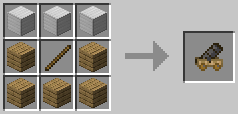
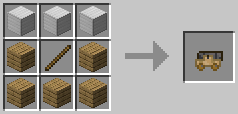
Zaktualizowano opis aktualizacji CannonUpdate o moździerze

Changed region(s): [[0.7941, 0.3684, 0.9412, 0.6316]]

diff --git a/content/updates/released/cannon-update.md b/content/updates/released/cannon-update.md
@@ -112,14 +112,36 @@ Aby otowrzyć graficzne menu działa należy kliknąć `PPM` na działo z przytr
 
 
 
-## Moździerze - alternatywa dla dział armatnich
+## Moździerz
 
-W finalnej wersji aktualizacji dodane zostaną moździerze z pociskami moździerzowymi, jako alternatywa do dział które mają głównie poziomy tor lotu - te pozwoliłyby na ostrzał wroga ukrytego za fortyfikacjami z powietrza. Zarówno pociski moździerzowe tak jak armatnie będą posiadać dwa warianty warianty - burzące oraz zapalające.
+W drugiej wersji aktualizacji dodane zostały moździerze, będące alternatywą dla dział które mają głównie poziomy tor lotu - moździerz pozwala na ostrzał wroga ukrytego za fortyfikacjami z powietrza.
+
+<div style="padding: 10pt 0;">
+	<img src="%assets_url%/images/cannon-update_mortar-front.png" style="width: 49%;">
+	<img src="%assets_url%/images/cannon-update_mortar-back.png" style="width: 49%;">
+</div>
+
+### Crafting moździerza
+
+<img src="%assets_url%/images/cannon-update_mortar-crafting.png" style="float: right; margin-left: 20pt;">
+Receptura pozwalająca craftować moździerz jest recepturą kształtową. Różni się od działa tylko tym, że wymaga jednego bloku żelaza mniej.
+
+</br>
+
+### Różnica między działem a moździerzem
+
+Moździerze z uwagi na krótszą lufę posiadają mniejszą niż działa zdolność miotania pociskami. Ich konstrukcja ogranicza również kąt strzału. Moździerz można także załadować stojąc za nim (od strony zapalnika) jeśli tylko odpowiednio odchyli się lufę.  
+Poza tymi różnicami, działanie moździerza jest analogiczne do działania działa.
 
 
 ## Zalety modyfikacji
  - zwiększenie realizmu oblężeń
  - kontrola toru lotu przez zmianę kąta lufy lub ilość prochu
- - kontrola uzyskanych efektu ostrzału przez użycie pocisków burzących lub zapalających
+ - kontrola uzyskanych efektów ostrzału przez użycie pocisków burzących lub zapalających
  - możliwość stosowania różnych strategii ostrzału przez zmianę siły strzału lub rodzaj pocisku
  - mobilność maszyn oblężniczych
+
+
+<div style="padding: 10pt 0;">
+	<img src="%assets_url%/images/cannon-update_presentation.png">
+</div>
